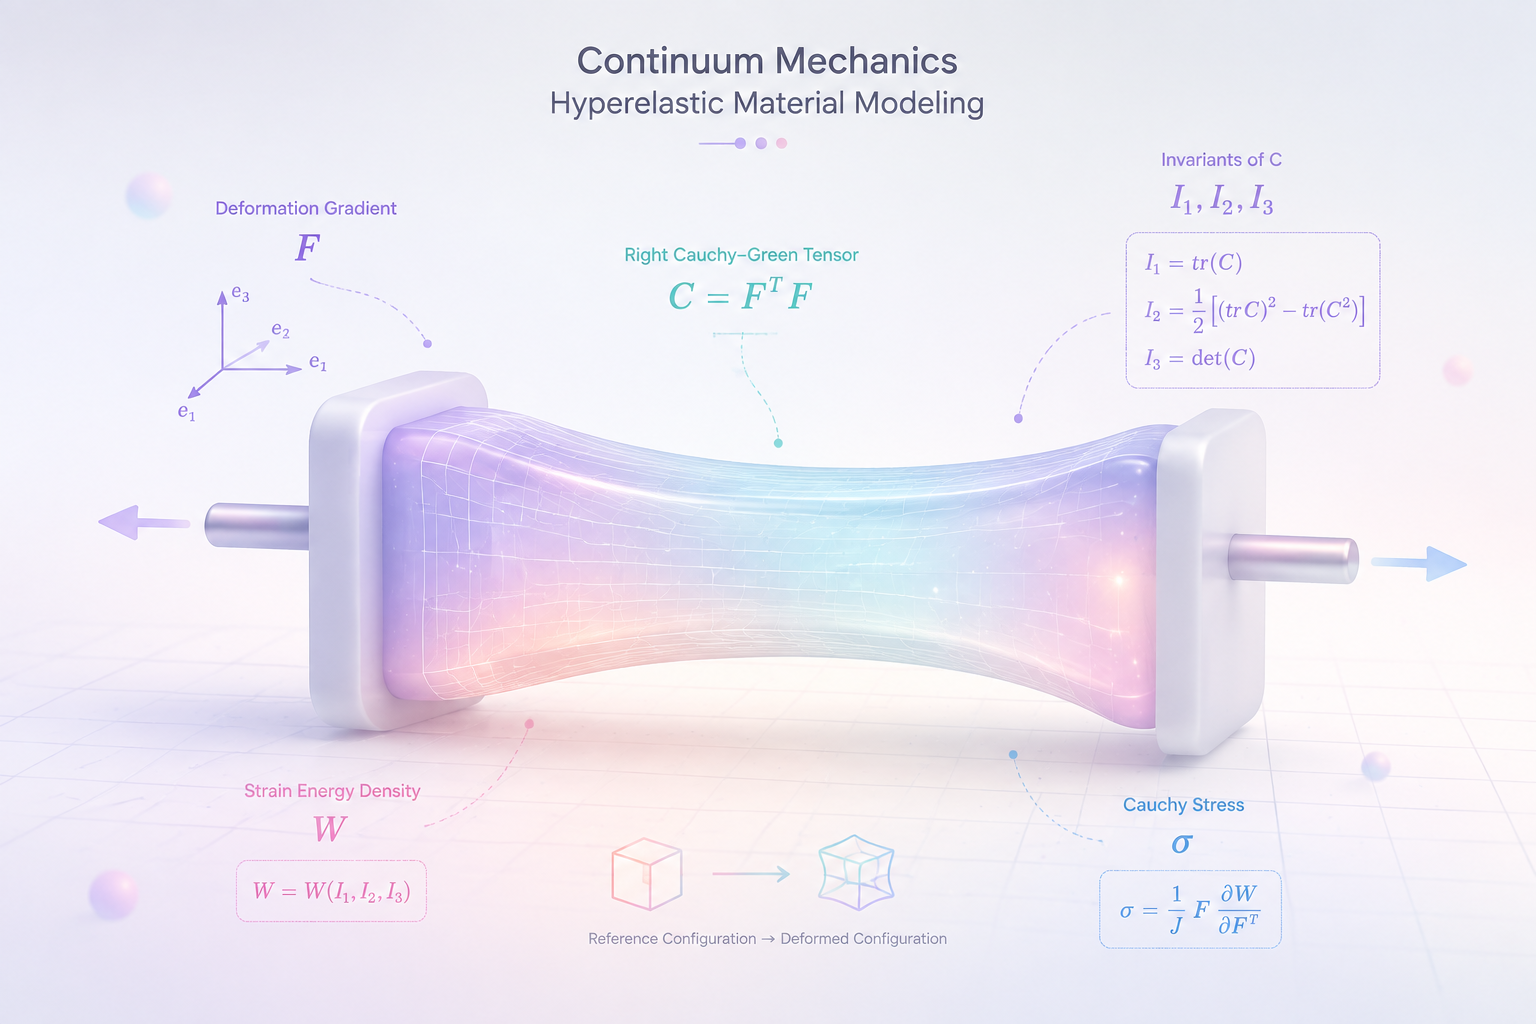
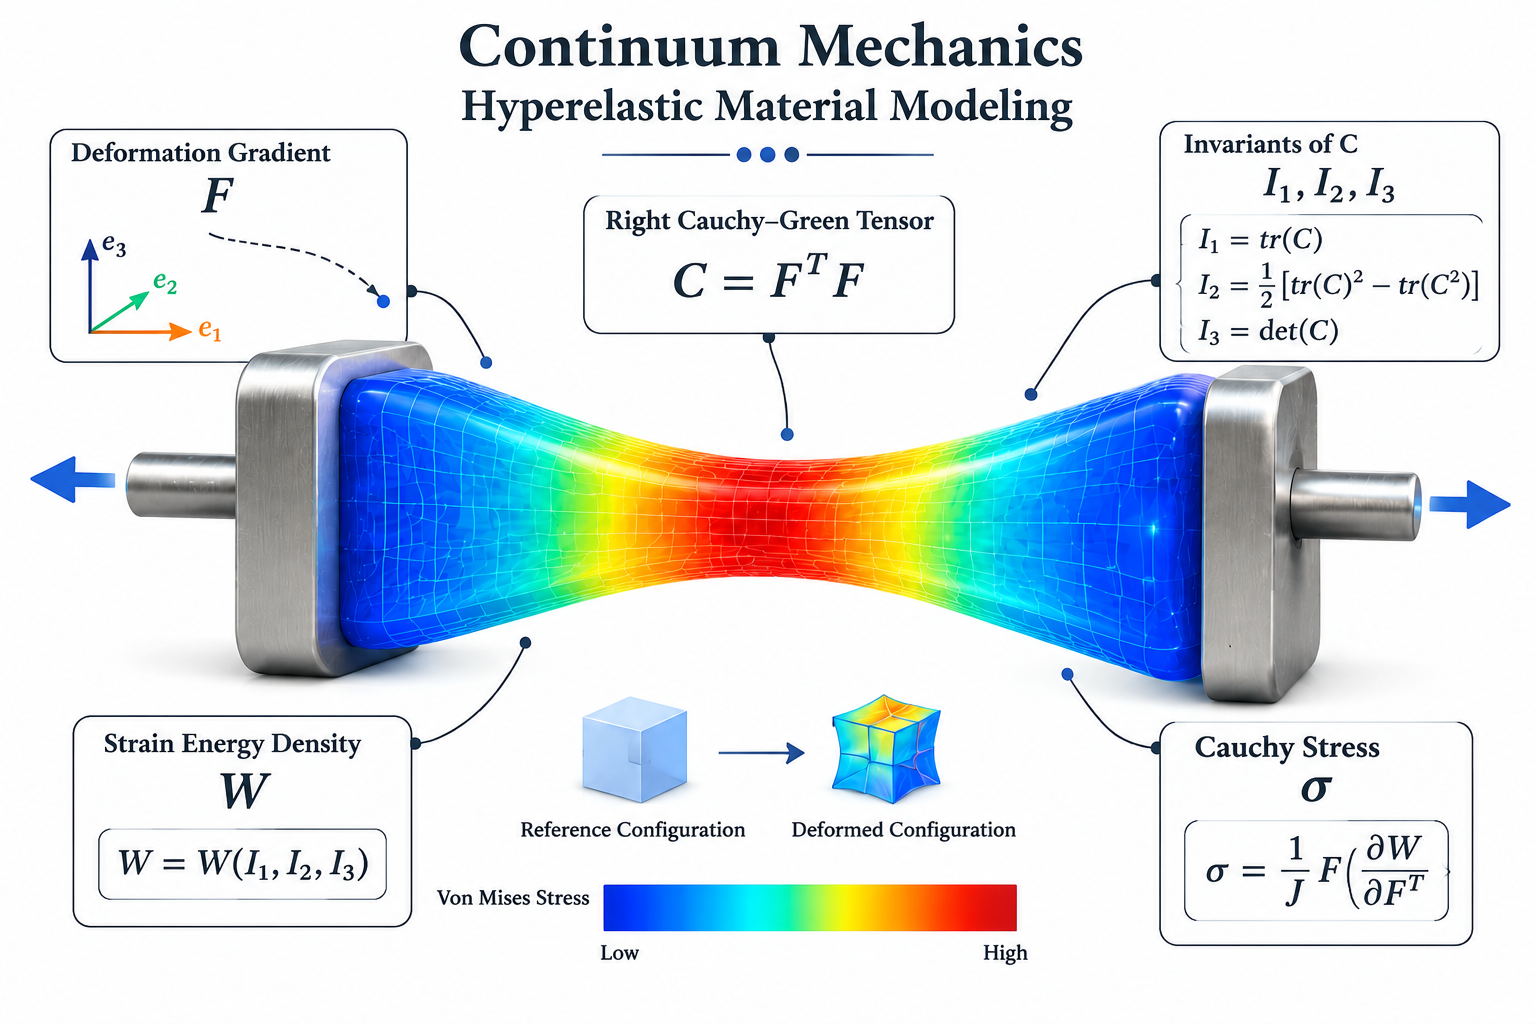
update on readme files and main picture

diff --git a/README.md b/README.md
@@ -90,53 +90,4 @@ These models are commonly used to represent the behavior of soft materials under
 The `calibration` folder contains a standard raw Python code as well as a Python app (more user-friendly) for fitting well-known material models (mentioned before).
 The code uses experimental data for uniaxial tension and pure shear tests.
 
-## Calibration raw code
 
-In `Calibration_raw.py`, experimental data should be provided as a .txt file named `test_data.txt`. The code jointly calibrates the chosen models to the experimental data using nonlinear least-squares optimization. The first Piola–Kirchhoff stress is used in this case.
-At the end, the material parameters are estimated and reported. The quality of calibration is evaluated using metrics:
-
-- Relative root-mean-square error
-- Root-mean-square error (**RMSE**)
-- Normalized root-mean-square error (**NRMSE**)
-- Coefficient of determination ($R^2$)
-- Maximum absolute error
-
-The fitted material constants and corresponding goodness-of-fit measures are then reported for each constitutive model.
-Finally, the code generates comparison plots of the calibrated model predictions against the experimental data, saves the figures in `.svg` and `.tiff` formats, and writes a formatted summary of the calibration results to `fit_results.txt`.
-
-> **Important:** Appropriate parameter bounds and initial guesses are critical for obtaining stable and physically meaningful solutions from nonlinear least-squares optimization.
-
-
-## Calibration App
-
-A Python app for calibrating hyperelastic constitutive models to experimental stress-stretch data saved as `Calibration_App`.
-
-## What it does
-
-Loads uniaxial tension and pure shear test data from a CSV file, fits one of five hyperelastic models to the data using nonlinear least squares, and displays the fitted parameters alongside comparison plots.
-
-## Supported Models
-
-| Model | Parameters |
-|---|---|
-| Neo-Hookean | C₁₀ |
-| Mooney-Rivlin | C₁₀, C₀₁ |
-| Gent | μ, Jₘ |
-| Yeoh | C₁, C₂, C₃ |
-| Anssari-Benam | μ, N, n, β, C₂₀, ε |
-
-## Input Format
-
-A `.csv` file with four columns (no header required):
-
-
----
-
-
-<table>
-  <tr>
-    <td width="100%">
-        <img src="calibration_fit.jpg" alt="Description" style="max-width: 100%; height: auto;">
-    </td>
-  </tr>
-</table>

diff --git a/Calibration/README.md b/Calibration/README.md
@@ -1,6 +1,28 @@
+## Calibration raw code
+
+In `Calibration_raw.py`, experimental data should be provided as a .txt file named `test_data.txt`. The code jointly calibrates the chosen models to the experimental data using nonlinear least-squares optimization. The first Piola–Kirchhoff stress is used in this case.
+At the end, the material parameters are estimated and reported. The quality of calibration is evaluated using metrics:
+
+- Relative root-mean-square error
+- Root-mean-square error (**RMSE**)
+- Normalized root-mean-square error (**NRMSE**)
+- Coefficient of determination ($R^2$)
+- Maximum absolute error
+
+The fitted material constants and corresponding goodness-of-fit measures are then reported for each constitutive model.
+Finally, the code generates comparison plots of the calibrated model predictions against the experimental data, saves the figures in `.svg` and `.tiff` formats, and writes a formatted summary of the calibration results to `fit_results.txt`.
+
+> **Important:** Appropriate parameter bounds and initial guesses are critical for obtaining stable and physically meaningful solutions from nonlinear least-squares optimization.
+
+
+
+
+
+
 ### Data Calibration Utility (`Calibration_App.py`)
 
 The `Calibration_App.py` script is designed to calibrate hyperelastic constitutive models against experimental data.
+It employs a nonlinear least-squares optimization algorithm to jointly calibrate the models against both uniaxial and pure shear test results.
 
 #### Input Requirements
 The application requires a `.csv` file containing experimental data from uniaxial and pure shear tests. The data must be structured with the following column headers:
